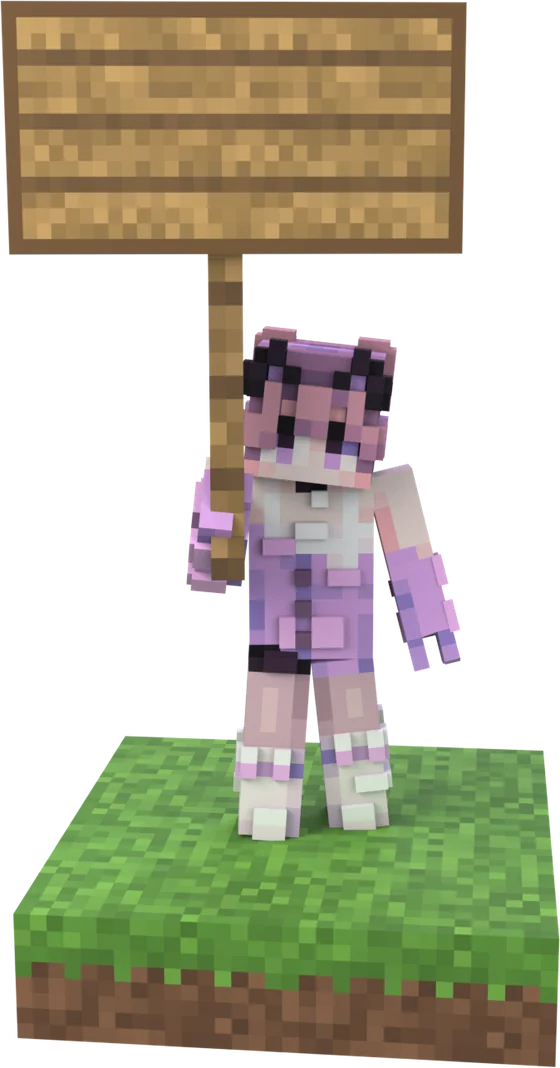
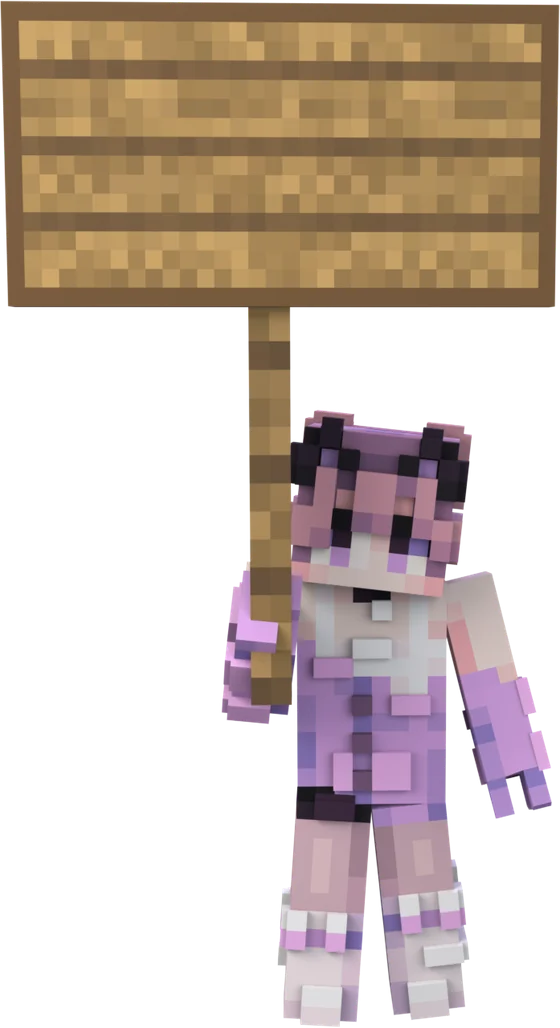
Character renders blend into the pages
- brand-coloured glow behind every render, hero bases dissolve into the
  background, contact shadows where a figure stands on or leans over a card
- the single figures (pointing player, sign holder, bouncer) stand on
  nothing now instead of grass/floor blocks
- characters ease in while scrolling, the hero diorama drifts out
  (scroll-driven animations, progressive enhancement)
- speech bubble with the plan-card gradient border

diff --git a/css/mc.css b/css/mc.css
@@ -1,36 +1,88 @@
 /* Minecraft character renders worked into the free and game server pages.
-   Every skin appears in exactly one image. */
+   Every skin appears in exactly one image. The renders melt into the page:
+   brand-coloured glow behind them, bases dissolving into the background,
+   contact shadows where they touch a card, and (where supported) a soft
+   entrance and exit tied to scrolling. */
 
-/* hero diorama, replaces the generated hero art */
-.mc-hero { width: 100%; display: flex; justify-content: center; margin: 6px 0 clamp(36px, 6vw, 90px); }
-.mc-hero img { width: min(880px, 100%); height: auto; filter: drop-shadow(0 34px 46px rgba(0, 0, 0, 0.55)); animation: mc-bob 7s ease-in-out infinite; }
+/* ---------- hero dioramas ---------- */
+.mc-hero { position: relative; isolation: isolate; width: 100%; display: flex; justify-content: center; margin: 6px 0 clamp(36px, 6vw, 90px); }
+.mc-hero::before {                                /* light the scene from behind in the site's accents */
+  content: ''; position: absolute; z-index: -1; left: 50%; top: 4%; width: min(1000px, 110%); height: 86%; translate: -50% 0;
+  background:
+    radial-gradient(42% 46% at 50% 52%, rgba(139, 92, 246, 0.32), transparent 70%),
+    radial-gradient(60% 40% at 30% 70%, rgba(34, 211, 238, 0.14), transparent 70%),
+    radial-gradient(60% 40% at 72% 66%, rgba(59, 130, 246, 0.16), transparent 70%);
+  filter: blur(26px);
+}
+.mc-hero::after {                                 /* a pool of light the island floats over */
+  content: ''; position: absolute; z-index: -1; left: 50%; bottom: 2%; width: min(760px, 86%); height: 70px; translate: -50% 0;
+  background: radial-gradient(closest-side, rgba(139, 92, 246, 0.42), rgba(59, 130, 246, 0.12) 55%, transparent);
+  filter: blur(14px);
+}
+.mc-hero img {
+  width: min(880px, 100%); height: auto;
+  filter: drop-shadow(0 30px 40px rgba(6, 6, 6, 0.85));
+  -webkit-mask-image: linear-gradient(#000 58%, rgba(0, 0, 0, 0.55) 80%, transparent 99%);
+          mask-image: linear-gradient(#000 58%, rgba(0, 0, 0, 0.55) 80%, transparent 99%);
+  animation: mc-bob 7s ease-in-out infinite;
+}
 @keyframes mc-bob { 50% { transform: translateY(-9px); } }
+
+/* ---------- shared look for the single characters ---------- */
+.mc-fig, .mc-sign, .mc-bouncer, .mc-peek { position: relative; isolation: isolate; }
+.mc-fig::before, .mc-sign::before, .mc-bouncer::before {
+  content: ''; position: absolute; z-index: -1; inset: 6% -18% 4%;
+  background: radial-gradient(closest-side, rgba(139, 92, 246, 0.36), rgba(59, 130, 246, 0.14) 55%, transparent);
+  filter: blur(16px);
+}
+/* they stand on nothing: a soft contact shadow under the feet grounds them */
+.mc-fig::after, .mc-bouncer::after {
+  content: ''; position: absolute; z-index: -1; left: 12%; right: 12%; bottom: -10px; height: 24px;
+  background: radial-gradient(closest-side, rgba(0, 0, 0, 0.75), rgba(139, 92, 246, 0.16) 60%, transparent);
+  filter: blur(3px);
+}
 
 /* sign held up on top of the "what you get" cells, the page writes the price onto it */
 .mc-cells { position: relative; }
-.mc-sign { position: absolute; right: 3%; bottom: calc(100% - 14px); width: clamp(118px, 10vw, 140px); margin: 0; z-index: 1; pointer-events: none; }
+.mc-sign { position: absolute; right: 3%; bottom: calc(100% - 3px); width: clamp(128px, 11vw, 156px); margin: 0; z-index: 1; pointer-events: none; }
 .mc-sign img { width: 100%; height: auto; display: block; }
+.mc-sign::after {                                 /* where she stands on the card */
+  content: ''; position: absolute; z-index: -1; left: 8%; right: 8%; bottom: 10px; height: 26px;
+  background: radial-gradient(closest-side, rgba(139, 92, 246, 0.5), transparent);
+  filter: blur(6px);
+}
 .mc-sign-text {
-  position: absolute; left: 3%; top: 1%; width: 78%; height: 22%;
+  position: absolute; left: 0; top: 0; width: 100%; height: 29.7%;
   display: flex; align-items: center; justify-content: center; gap: 0.3em;
   color: #3a2813; font-weight: 700; font-size: clamp(18px, 1.7vw, 23px); letter-spacing: -0.02em; line-height: 1;
   transform: rotate(-1.5deg);
 }
 .mc-sign-text small { font-size: 0.5em; font-weight: 600; color: #5a4022; }
+.cells > .mc-sign, .cells > .mc-sign:hover { background: none; border: 0; padding: 0; box-shadow: none; min-height: 0; overflow: visible; }
 @media (max-width: 1000px) {
   .mc-sign { position: relative; right: auto; bottom: auto; margin: 0 auto 8px; grid-column: 1 / -1; width: 140px; }
 }
 
 /* closing call to action: the player points at the button. The fingertip sits
-   at 0.309 x the image width from its top, the button is centred on it. */
+   at 0.426 x the image width from its top, the button is centred on it. */
 .mc-point-cta { --mc-pw: clamp(118px, 15vw, 200px); display: flex; align-items: flex-start; justify-content: center; gap: clamp(4px, 1.2vw, 14px); }
-.mc-point-cta img { width: var(--mc-pw); height: auto; filter: drop-shadow(0 18px 24px rgba(0, 0, 0, 0.5)); }
-.mc-point-cta .btn { margin-top: calc(var(--mc-pw) * 0.309 - 26px); }
+.mc-point-cta .mc-fig { display: block; width: var(--mc-pw); }
+.mc-point-cta img { width: 100%; height: auto; display: block; }
+.mc-point-cta .btn { margin-top: calc(var(--mc-pw) * 0.426 - 26px); }
 
 /* game server plans: a player leans on the most popular card */
 .plans.mc-has-peek { margin-top: clamp(140px, 15vw, 180px); }
-.mc-peek { position: absolute; left: 50%; bottom: calc(100% - 1px); width: min(74%, 236px); transform: translateX(-50%); pointer-events: none; margin: 0; }
+.mc-peek { position: absolute; left: 50%; bottom: calc(100% - 1px); width: min(74%, 236px); translate: -50% 0; pointer-events: none; margin: 0; z-index: 1; }
 .mc-peek img { width: 100%; height: auto; display: block; }
+.mc-peek::before {                                /* the card's own cyan-blue-violet light behind his head */
+  content: ''; position: absolute; z-index: -1; inset: 0 -10% 10%;
+  background: radial-gradient(closest-side, rgba(59, 130, 246, 0.34), rgba(34, 211, 238, 0.12) 55%, transparent);
+  filter: blur(18px);
+}
+.mc-peek::after {                                 /* his fists rest on the edge */
+  content: ''; position: absolute; left: 4%; right: 4%; top: 100%; height: 22px; margin-top: -2px;
+  background: radial-gradient(60% 100% at 50% 0%, rgba(0, 0, 0, 0.55), transparent 70%);
+}
 @media (max-width: 900px) {
   .plans.mc-has-peek { margin-top: 0; }
   .plan.mc-peeked { margin-top: 170px; }
@@ -38,23 +90,42 @@
 
 /* what every server includes: the bouncer next to the list */
 .pp-spec.mc-spec { display: grid; grid-template-columns: 1fr auto; gap: clamp(24px, 4vw, 56px); align-items: end; max-width: 1180px; }
-.mc-bouncer { margin: 0; width: clamp(150px, 15vw, 210px); position: relative; }
-.mc-bouncer img { width: 100%; height: auto; display: block; filter: drop-shadow(0 20px 26px rgba(0, 0, 0, 0.5)); }
+.mc-bouncer { margin: 0 0 12px; width: clamp(120px, 11vw, 160px); }
+.mc-bouncer img { width: 100%; height: auto; display: block; }
 .mc-bubble {
-  position: absolute; bottom: 100%; right: 0; margin-bottom: 4px; width: max-content; max-width: min(200px, 100%);
-  background: var(--panel); border: 1px solid var(--line); border-radius: 14px; padding: 10px 14px;
+  position: absolute; bottom: 100%; right: -14px; margin-bottom: 6px; width: max-content; max-width: 190px; text-wrap: balance;
+  padding: 10px 14px; border-radius: 14px; border: 1px solid transparent;
+  background:
+    linear-gradient(var(--panel-2), var(--panel-2)) padding-box,
+    linear-gradient(160deg, rgba(34, 211, 238, 0.55), rgba(59, 130, 246, 0.7) 40%, rgba(139, 92, 246, 0.35)) border-box;
+  box-shadow: 0 12px 30px rgba(59, 130, 246, 0.12);
   font-size: 14px; line-height: 1.35; color: var(--ink); text-align: left;
 }
 .mc-bubble::after {
   content: ''; position: absolute; right: 26px; top: 100%; width: 12px; height: 12px; margin-top: -6px;
-  background: var(--panel); border-right: 1px solid var(--line); border-bottom: 1px solid var(--line); transform: rotate(45deg);
+  background: var(--panel-2); border-right: 1px solid rgba(139, 92, 246, 0.45); border-bottom: 1px solid rgba(139, 92, 246, 0.45); transform: rotate(45deg);
 }
 @media (max-width: 820px) {
   .pp-spec.mc-spec { grid-template-columns: 1fr; }
   .mc-bouncer { justify-self: center; margin-top: 70px; }
 }
 
-@media (prefers-reduced-motion: reduce) { .mc-hero img { animation: none; } }
+/* ---------- scroll: characters ease in, the hero drifts away ---------- */
+@supports (animation-timeline: view()) {
+  .mc-fig, .mc-sign, .mc-bouncer, .mc-peek {
+    animation: mc-in linear both; animation-timeline: view(); animation-range: entry 0% cover 28%;
+  }
+  .mc-hero { animation: mc-out linear both; animation-timeline: view(); animation-range: exit 5% exit 95%; }
+}
+@keyframes mc-in {
+  from { opacity: 0; transform: translateY(34px) scale(0.94); filter: blur(6px); }
+  to { opacity: 1; transform: none; filter: none; }
+}
+@keyframes mc-out {
+  to { opacity: 0; transform: translateY(-46px) scale(0.96); filter: blur(5px); }
+}
 
-/* the sign sits inside .cells but must not look like a cell */
-.cells > .mc-sign, .cells > .mc-sign:hover { background: none; border: 0; padding: 0; box-shadow: none; min-height: 0; overflow: visible; }
+@media (prefers-reduced-motion: reduce) {
+  .mc-hero img { animation: none; }
+  .mc-fig, .mc-sign, .mc-bouncer, .mc-peek, .mc-hero { animation: none; }
+}

diff --git a/free.html b/free.html
@@ -26,7 +26,7 @@
     <link as="font" href="fonts/Satoshi.woff" rel="preload" type="font/woff2" crossorigin />
     <link href="css/fonts.css" rel="stylesheet" /><link rel="stylesheet" href="https://cdnjs.cloudflare.com/ajax/libs/font-awesome/7.3.1/css/all.min.css" integrity="sha512-QeR2VH+lsBE5LSAe1Q5EnTBbe7XTBubt8dG93Y7gidSgdMCr8nVqKcfKAMyN96SV8KDbZVTDXChatu5G2KQGzg==" crossorigin="anonymous" referrerpolicy="no-referrer" media="print" onload="this.media=&#39;all&#39;" />
     <link href="css/lunaris.css?v=catnav4" rel="stylesheet" />
-    <link href="css/mc.css?v=7" rel="stylesheet" />
+    <link href="css/mc.css?v=10" rel="stylesheet" />
     <script type="application/ld+json">{
   "@context": "https://schema.org",
   "@type": "Product",
@@ -275,7 +275,7 @@
         </div>
         <div class="cells cells-4 mc-cells">
   <figure class="mc-sign">
-            <img src="/img/mc/free-sign.webp" width="560" height="1068" alt="A Minecraft player holding up a wooden sign" loading="lazy" decoding="async" />
+            <img src="/img/mc/free-sign.webp?v=2" width="560" height="1028" alt="A Minecraft player holding up a wooden sign" loading="lazy" decoding="async" />
             <span class="mc-sign-text">€0<small>/ month</small></span>
           </figure>
           <div class="cell rv"><h3>1 vCPU</h3><p>A full core share, capped so a neighbour cannot eat it.</p></div>
@@ -323,7 +323,7 @@
         <h2 class="d1 rv">Ready in about a minute.</h2>
         <p class="lede rv">Pick a version, give it a name, connect. Upgrade to a paid server whenever you outgrow it - your world comes with you.</p>
         <div class="mc-point-cta rv">
-          <img src="/img/mc/free-point.webp" width="600" height="778" alt="A Minecraft player pointing at the button" loading="lazy" decoding="async" />
+          <span class="mc-fig"><img src="/img/mc/free-point.webp?v=2" width="599" height="769" alt="A Minecraft player pointing at the button" loading="lazy" decoding="async" /></span>
           <a class="btn btn-light btn-lg" href="/dashboard/free-minecraft">Create my free server</a>
         </div>
         <p class="rv" style="color:var(--dim);font-size:13px">No card required. One free server per person, paid game servers from &euro;6.99/mo.</p>

diff --git a/gameservers.html b/gameservers.html
@@ -27,7 +27,7 @@
     <link href="css/fonts.css" rel="stylesheet" />
     <link href="css/lunaris.css?v=catnav4" rel="stylesheet" />
     <link href="css/product.css?v=8" rel="stylesheet" />
-    <link href="css/mc.css?v=7" rel="stylesheet" />
+    <link href="css/mc.css?v=10" rel="stylesheet" />
     <script type="application/ld+json">{
   "@context": "https://schema.org",
   "@type": "Product",
@@ -554,7 +554,7 @@
           </dl>
           <figure class="mc-bouncer rv">
             <figcaption class="mc-bubble">DDoS attacks? Not getting past me.</figcaption>
-            <img src="/img/mc/gs-ddos.webp" width="640" height="813" alt="A Minecraft bouncer in a suit and sunglasses with his arms crossed" loading="lazy" decoding="async" />
+            <img src="/img/mc/gs-ddos.webp?v=2" width="493" height="1018" alt="A Minecraft bouncer in a suit and sunglasses with his arms crossed" loading="lazy" decoding="async" />
           </figure>
           
         </div>
